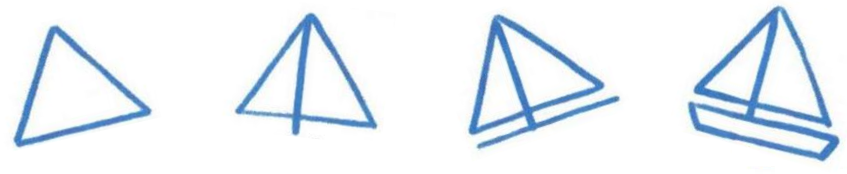
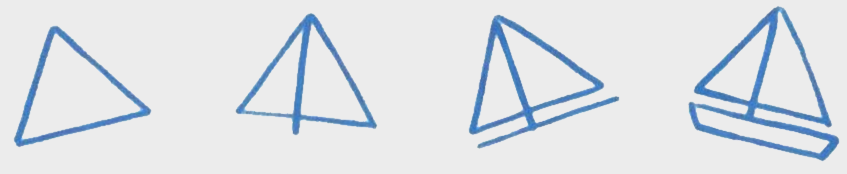
awesome

diff --git a/public/css/awesome.css b/public/css/awesome.css
@@ -7,7 +7,13 @@
   color:white;
 }
 
+html{
+  background-color: #ECECEC;
+
+}
 body{
+  height:100%;
+  background-color: #ECECEC;
   background-image: url(../image/bateau.png);
   background-repeat: no-repeat;
   background-position: right bottom;
